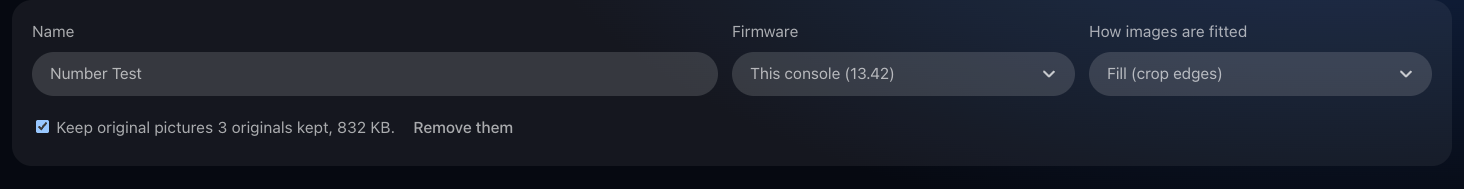
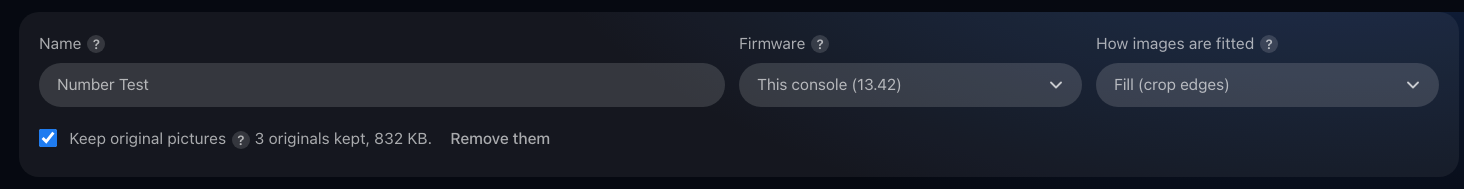
Discard no longer brings back an upload's temporary file; plain apply results
- The copy of a theme that Discard goes back to is made at the theme's first
  change, an upload still in its temporary .part file. The copy took that
  file too, so after a Discard every apply skipped it and said "applied
  partly" (seen on the console). Copies (Discard's and Duplicate's) now
  leave temporary files out, an apply ignores them, and it removes one left
  untouched for an hour (an upload that was cut off).
- "Applied partly" said "107 of 27 folders" (overlays counted against
  folders). It now says what was skipped, and how many folders couldn't be
  used if any. The result has room for every hint; with pictures, a font,
  artwork and music it used to stop mid-sentence.
- The applying banner shows its percentage on the right, like the other
  progress displays.
- Host test: a Discard, a duplicate and two applies with such files in the
  theme (without the fix, the copy held the upload's own .part file).
- Docs: new manager screenshots (help marks, the colours, the new layout).

Changed region(s): [[0.0, 0.1323, 0.9836, 0.582], [0.0, 0.6349, 0.3996, 0.7937], [0.4918, 0.0, 1.0, 0.0794]]

diff --git a/web/index.html b/web/index.html
@@ -367,9 +367,9 @@ input[type=number]:focus-visible { box-shadow: 0 0 0 2px #fff; }
 .appear { animation: in .22s var(--ease); }
 details > summary { cursor: pointer; }
 details[open] > :not(summary) { animation: in .2s var(--ease); }
-.toast .row { display: flex; gap: 12px; align-items: baseline; }
-.toast .row .label { flex: 1; min-width: 0; }
-.toast .pct { font-variant-numeric: tabular-nums; color: var(--muted); font-size: .8125rem; }
+.toast .row, .banner .row { display: flex; gap: 12px; align-items: baseline; }
+.toast .row .label, .banner .row .label { flex: 1; min-width: 0; }
+.toast .pct, .banner .pct { font-variant-numeric: tabular-nums; color: var(--muted); font-size: .8125rem; }
 
 /* Loading markers: where something being read from the console will show, with how far it has got */
 .loading { margin: 8px 0 12px; padding: 14px 16px; border-radius: var(--radius); background: var(--surface); font-size: .9375rem; animation: in .2s var(--ease); }
@@ -776,8 +776,8 @@ function resultBanner() {
   const s = state.status;
   if (s.applying) {
     const pr = s.progress;
-    return `<div class="banner" role="status">Applying ${esc((themeById(s.applying) || { name: s.applying }).name)}` +
-      `${pr ? `: ${esc(pr.text)}… ${pr.percent}%` : "…"}` +
+    return `<div class="banner" role="status"><div class="row"><span class="label">Applying ${esc((themeById(s.applying) || { name: s.applying }).name)}` +
+      `${pr ? `: ${esc(pr.text)}…` : "…"}</span>${pr ? `<span class="pct">${pr.percent}%</span>` : ""}</div>` +
       `<div class="progress" style="margin-top:10px"><i style="width:${pr ? pr.percent : 0}%"></i></div>` +
       `<span class="muted" style="font-size:.875rem">The home screen can show the stock look for a moment while it switches.</span></div>`;
   }

diff --git a/tests/host/test_e2e.py b/tests/host/test_e2e.py
@@ -1817,6 +1817,58 @@ def t_save_and_discard():
     assert not os.path.exists(f"{BASE}/snapshots/scratch")
 
 
+
+def t_cut_off_uploads_are_not_theme_files():
+    """An upload cut off part way leaves its .part file in the theme. It is never copied into the snapshot Discard
+    goes back to (on the console, a Discard brought one back and every apply after it was "applied partly"), nor
+    into a duplicate; an apply neither uses nor counts one, and removes one untouched for an hour."""
+    def parts(root):
+        return sorted(f for _, _, fs in os.walk(root) for f in fs if f.endswith(".part"))
+
+    was = status()["applied"]
+    assert call("POST", "/api/themes", {"id": "cutoff", "name": "Cut off"})[0] == 200
+    assert put_file("cutoff", f"{HOME}/bg.png", png(480, 270, (200, 120, 20)))[0] == 200
+    theme, snap = f"{BASE}/themes/cutoff", f"{BASE}/snapshots/cutoff"
+    assert call("POST", "/api/theme/save", {"id": "cutoff"})[0] == 200
+    fresh, stale = f"{theme}/files{HOME}/bg.png.7.part", f"{theme}/files{HOME}/icon@2x.png.3.part"
+    write(fresh, b"an upload being received")
+    write(stale, b"an upload cut off long ago")
+    os.utime(stale, (time.time() - 7200, time.time() - 7200))
+
+    # The first change keeps the snapshot while another upload is being received: without it.
+    assert put_file("cutoff", f"{HOME}/bg.png", png(480, 270, (20, 160, 60)))[0] == 200
+    assert os.path.isdir(snap) and parts(snap) == [], parts(snap)
+    assert call("POST", "/api/themes/duplicate", {"id": "cutoff", "new_id": "cutoff2", "name": "Cut off 2"})[0] == 200
+    assert parts(f"{BASE}/themes/cutoff2") == []
+    assert call("DELETE", "/api/themes", {"id": "cutoff2"})[0] == 200
+    assert call("POST", "/api/theme/discard", {"id": "cutoff"})[0] == 200
+    assert parts(theme) == [], parts(theme)
+    assert [f["path"] for f in call("GET", "/api/theme/files", {"id": "cutoff"})[1]["files"]] == [f"{HOME}/bg.png"]
+
+    # An apply leaves them out, and removes the old one.
+    write(fresh, b"an upload being received")
+    write(stale, b"an upload cut off long ago")
+    os.utime(stale, (time.time() - 7200, time.time() - 7200))
+    assert call("POST", "/api/apply", {"id": "cutoff"})[0] == 200
+    s = wait_applied("cutoff")
+    assert "1 files verified" in s["result"], s["result"]
+    log = call("GET", "/api/log")[1].decode()
+    assert "partly" not in s["result"] and "skipped" not in s["result"], \
+        (s["result"], [line for line in log.splitlines() if "skipping" in line or "ignoring" in line][-4:])
+    assert not os.path.exists(stale) and os.path.exists(fresh)
+    assert "an upload that was cut off" in log
+
+    # "Applied partly" says what was skipped, in plain words: no count of folders against overlays.
+    write(f"{theme}/files{HOME}/not-on-this-firmware.png", png(64, 64, (1, 2, 3)))
+    assert call("POST", "/api/apply", {"id": "cutoff"})[0] == 200
+    s = wait_result("applied partly")
+    assert "1 skipped." in s["result"] and not re.search(r"\d+ of \d+ folders", s["result"]), s["result"]
+
+    assert call("POST", "/api/apply", {"id": was or "none"})[0] == 200
+    wait_applied(was)
+    assert call("DELETE", "/api/themes", {"id": "cutoff"})[0] == 200
+    assert not os.path.exists(theme) and not os.path.exists(snap)
+
 def t_home_background_textures():
     stock_path = f"{VSH}/bg_hub_default.dds.zst"
     stock_dds = subprocess.run(["zstd", "-d", "-c", "-q", stock_path], capture_output=True, check=True).stdout
@@ -3035,7 +3087,7 @@ TESTS = [t_startup, t_ui_and_icon_served, t_mutations_need_token, t_create_theme
          t_stock_mirror_and_linked_staging, t_stage_folders_reused_without_links,
          t_firmware_mismatch_is_refused, t_delete_rules, t_concurrent_requests_during_apply,
          t_restore_stock_cleans_up, t_overlays_reach_system_views, t_crash_loop_takes_theme_down, t_busy_overlay_is_never_forced, t_recovers_after_hard_kill, t_update_from_payload_manager, t_update_from_plain_elf, t_update_hands_over, t_update_at_boot, t_web_comes_back_after_rest_mode, t_takeover_when_web_is_down, t_stop_tool_keeps_the_theme, t_failed_write_closes_its_file, t_survives_malformed_and_abusive_requests,
-         t_slow_clients_do_not_block_others, t_log_rotates, t_media_policy, t_music, t_settings_and_duplicate, t_preview_pictures, t_save_and_discard,
+         t_slow_clients_do_not_block_others, t_log_rotates, t_media_policy, t_music, t_settings_and_duplicate, t_preview_pictures, t_save_and_discard, t_cut_off_uploads_are_not_theme_files,
          t_home_background_textures, t_interface_pictures, t_title_pictures, t_fonts, t_bc7_keeps_transparency, t_page_writes_the_consoles_zstd_frames, t_page_bleeds_colour_into_clear_pixels, t_page_places_textures_against_their_edge, t_texture_sources, t_appearance_textures, t_shellui_exit_releases_sandbox, t_shellui_exits_during_apply, t_title_where, t_watch_files, t_home_music_at9, t_long_mount_paths_use_parent_folder, t_system_is_byte_identical_afterwards, t_crash_is_reported_and_recovered,
          t_privilege_failure_exits_cleanly]
 

diff --git a/src/main.c b/src/main.c
@@ -89,7 +89,7 @@ static char applied[128];        /* theme currently mounted, "" if stock */
 static char applying[128];       /* theme being applied, "" when idle */
 static int  progress_pct = -1;   /* how far the apply is, -1 when idle */
 static char progress_text[128];  /* what it is doing, in plain words */
-static char result[512];         /* outcome of the last apply, for the UI */
+static char result[RESULT_MAX];  /* outcome of the last apply, for the UI */
 static atomic_int reapply_requested;
 
 
@@ -532,6 +532,13 @@ plan_files(const char *theme_dir, const char *stock_dir, const char *stock_real,
 
     if(S_ISDIR(st.st_mode)) {
       ret = plan_files(theme_dir, stock_dir, stock_real, r, p);
+      continue;
+    }
+    /* An upload being received: not a file of the theme. One untouched for an hour was cut off (a live upload
+       writes at least every 15 seconds, or gives up), and is removed. */
+    size_t len = strlen(e->d_name);
+    if(S_ISREG(st.st_mode) && len > 5 && !strcmp(e->d_name + len - 5, ".part")) {
+      if(time(NULL) - st.st_mtime > 3600 && !fs_unlink(theme)) log_msg("theme: removed %s, an upload that was cut off", theme);
       continue;
     }
     if(!S_ISREG(st.st_mode)) {
@@ -1974,8 +1981,10 @@ apply_theme(const char *name) {
     snprintf(hints + strlen(hints), sizeof(hints) - strlen(hints), " %s", MUSIC_HINT);
   }
   if(failed || skipped) {
-    set_result("%s applied partly: %d files verified, %d skipped, %d of %d folders.%s%s See Activity.%s",
-               title, verified, skipped, mounted, count, music, games, hints);
+    char folders[96] = "";
+    if(failed) snprintf(folders, sizeof(folders), " %d of its %d folders could not be used.", failed, count);
+    set_result("%s applied partly: %d files verified, %d skipped.%s%s%s See Activity.%s",
+               title, verified, skipped, folders, music, games, hints);
   } else {
     set_result("%s applied: %d files verified on the console.%s%s%s", title, verified, music, games, hints);
   }

diff --git a/src/fsguard.c b/src/fsguard.c
@@ -364,6 +364,10 @@ copy_tree_into(const char *src, const char *dst, int links) {
 
   while(!ret && (e = readdir(d))) {
     if(!strcmp(e->d_name, ".") || !strcmp(e->d_name, "..")) continue;
+    /* An upload being received (or one cut off) is never part of a theme: a copy made meanwhile, such as the copy
+       Discard goes back to, would otherwise bring it back as a file of the theme. */
+    size_t len = strlen(e->d_name);
+    if(len > 5 && !strcmp(e->d_name + len - 5, ".part")) continue;
     char s[PATH_MAX], t[PATH_MAX];
     if(snprintf(s, sizeof(s), "%s/%s", src, e->d_name) >= (int)sizeof(s) ||
        snprintf(t, sizeof(t), "%s/%s", dst, e->d_name) >= (int)sizeof(t)) {

diff --git a/src/theme.h b/src/theme.h
@@ -205,6 +205,7 @@ int  write_active(const char *name);
 int  applied_theme(char *out, size_t size);
 int  applying_theme(char *out, size_t size);
 int  apply_progress(char *text, size_t size);   /* percent, or -1 when idle */
+#define RESULT_MAX 1536   /* an apply's outcome with all its hints (pictures, font, artwork, music) */
 void last_result(char *out, size_t size);
 void themes_lock(void);
 void themes_unlock(void);

diff --git a/src/web.c b/src/web.c
@@ -424,7 +424,7 @@ static void drop_snapshot(const char *id);
 
 static void
 api_status(request_t *req) {
-  char fw[16], active[128], applied[128], applying[128], ip[32], result[512];
+  char fw[16], active[128], applied[128], applying[128], ip[32], result[RESULT_MAX];
   strbuf_t sb = {0};
 
   fw_string(fw, sizeof(fw));

diff --git a/docs/security.md b/docs/security.md
@@ -118,6 +118,18 @@ Also fixed in 1.59 after a review of the whole plugin and manager page:
   while it ran. It now reads from the theme it started with.
 - **Refusals weren't in the log.** Checks the plugin refused (and other
   conflicts) now show in **Activity** as "web: refused (code): reason".
+- **Discard could bring back an upload's temporary file.** The copy of a theme
+  that Discard goes back to is made at its first change, which is an upload
+  still in its temporary `.part` file; the copy took that file too, and after
+  a Discard every apply skipped it ("applied partly", seen on the console).
+  Copies (Discard's and Duplicate's) leave temporary files out, an apply
+  ignores them, and removes one untouched for an hour (an upload that was
+  cut off). Host test: a Discard, a duplicate and two applies with such
+  files in the theme.
+- **"Applied partly" counted the wrong things, and was cut short.** It said
+  "107 of 27 folders" (overlays against folders), and with every hint
+  (pictures, font, artwork, music) the message stopped mid-sentence. It now
+  says what was skipped in plain words, with room for every hint.
 
 ## What isn't covered
 

diff --git a/docs/appearance-themes.md b/docs/appearance-themes.md
@@ -58,7 +58,7 @@ numbers are the interface icons' numbered test, applied at the same time.*
    Control Center, top-right corner** and **PlayStation 2: Home screen
    artwork**. Use the rows of the theme you have selected on the console.
 
-   ![The Appearance themes section of the manager: each piece with its Placement and, for the corner pieces, Keep the clock and icons clear](screenshots/manager-appearance.png)
+   ![The Appearance themes section of the manager: each piece with its Placement and, for the corner pieces, Keep the clock and icons clear; the Colours at the end](screenshots/manager-appearance.png)
 
 3. **Choose how the picture is placed**, on the row, before or after
    attaching:

diff --git a/docs/testing.md b/docs/testing.md
@@ -7,7 +7,7 @@ tests/host/run.sh
 ```
 
 Builds the real plugin sources for Linux with AddressSanitizer and UBSan and
-runs 51 end-to-end tests against a fake console tree in a privileged
+runs 54 end-to-end tests against a fake console tree in a privileged
 container. They cover:
 
 - upload checks and the media policy, including files crafted to hang or
